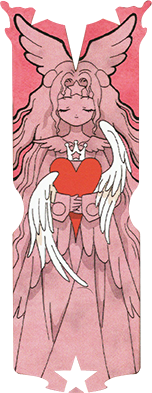
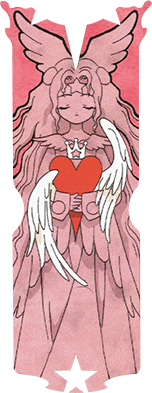
添加希望

diff --git a/src/main/java/KinomotoSakuraMod/Cards/SakuraCard/SakuraCardTheHope.java b/src/main/java/KinomotoSakuraMod/Cards/SakuraCard/SakuraCardTheHope.java
@@ -1,0 +1,67 @@
+package KinomotoSakuraMod.Cards.SakuraCard;
+
+import KinomotoSakuraMod.Cards.KSMOD_AbstractMagicCard;
+import KinomotoSakuraMod.Cards.SpellCard.SpellCardEmptySpell;
+import KinomotoSakuraMod.Patches.KSMOD_CustomCardColor;
+import KinomotoSakuraMod.Utility.KSMOD_ReflectTool;
+import com.megacrit.cardcrawl.cards.AbstractCard;
+import com.megacrit.cardcrawl.characters.AbstractPlayer;
+import com.megacrit.cardcrawl.core.CardCrawlGame;
+import com.megacrit.cardcrawl.localization.CardStrings;
+import com.megacrit.cardcrawl.monsters.AbstractMonster;
+
+public class SakuraCardTheHope extends KSMOD_AbstractMagicCard
+{
+    public static final String ID = "SakuraCardTheHope";
+    private static final String NAME;
+    private static final String DESCRIPTION;
+    private static final String IMAGE_PATH = "img/cards/sakuracard/the_hope.png";
+    private static final int COST = 3;
+    private static final CardType CARD_TYPE = CardType.POWER;
+    private static final CardColor CARD_COLOR = KSMOD_CustomCardColor.SAKURACARD_COLOR;
+    private static final CardRarity CARD_RARITY = AbstractCard.CardRarity.SPECIAL;
+    private static final CardTarget CARD_TARGET = CardTarget.SELF;
+
+    static
+    {
+        CardStrings cardStrings = CardCrawlGame.languagePack.getCardStrings(ID);
+        NAME = cardStrings.NAME;
+        DESCRIPTION = cardStrings.DESCRIPTION;
+    }
+
+    public SakuraCardTheHope()
+    {
+        super(ID, NAME, IMAGE_PATH, COST, DESCRIPTION, CARD_TYPE, CARD_COLOR, CARD_RARITY, CARD_TARGET);
+    }
+
+    public boolean canUpgrade()
+    {
+        return false;
+    }
+
+    public void upgrade()
+    {
+
+    }
+
+    @Override
+    public AbstractCard makeCopy()
+    {
+        if (KSMOD_ReflectTool.IsReallyCopyingCard() && this.hasSameSakuraCard())
+        {
+            return getSameNameClowCard();
+        }
+        return new SakuraCardTheLove();
+    }
+
+    public AbstractCard getSameNameClowCard()
+    {
+        return new SpellCardEmptySpell();
+    }
+
+    @Override
+    public void applyNormalEffect(AbstractPlayer player, AbstractMonster monster)
+    {
+
+    }
+}

diff --git a/src/main/java/KinomotoSakuraMod/Relics/KSMOD_AbstractWand.java b/src/main/java/KinomotoSakuraMod/Relics/KSMOD_AbstractWand.java
@@ -1,6 +1,8 @@
 package KinomotoSakuraMod.Relics;
 
 import KinomotoSakuraMod.Cards.KSMOD_AbstractMagicCard;
+import KinomotoSakuraMod.Cards.SakuraCard.SakuraCardTheHope;
+import KinomotoSakuraMod.Cards.SakuraCard.SakuraCardTheLove;
 import KinomotoSakuraMod.Cards.SpellCard.SpellCardTurn;
 import KinomotoSakuraMod.Characters.KinomotoSakura;
 import KinomotoSakuraMod.Effects.KSMOD_SealOrbEffect;
@@ -155,6 +157,10 @@ public abstract class KSMOD_AbstractWand extends CustomRelic
         {
             for (AbstractCard card : AbstractDungeon.player.masterDeck.group)
             {
+                if (card.cardID.contains(SakuraCardTheLove.ID) || card.cardID.contains(SakuraCardTheHope.ID))
+                {
+                    break;
+                }
                 if (card.cardID.contains("SakuraCardThe") || card.cardID.contains("SpellCardTurn"))
                 {
                     sakuraCardAmount += 1;

diff --git a/src/main/java/KinomotoSakuraMod/KSMOD.java b/src/main/java/KinomotoSakuraMod/KSMOD.java
@@ -263,6 +263,7 @@ public class KSMOD implements ISubscriber, PostInitializeSubscriber, EditCharact
             sakuraCards.add(new SakuraCardTheFly());
             sakuraCards.add(new SakuraCardTheFreeze());
             sakuraCards.add(new SakuraCardTheGlow());
+            sakuraCards.add(new SakuraCardTheHope());
             sakuraCards.add(new SakuraCardTheIllusion());
             sakuraCards.add(new SakuraCardTheJump());
             sakuraCards.add(new SakuraCardTheLibra());
